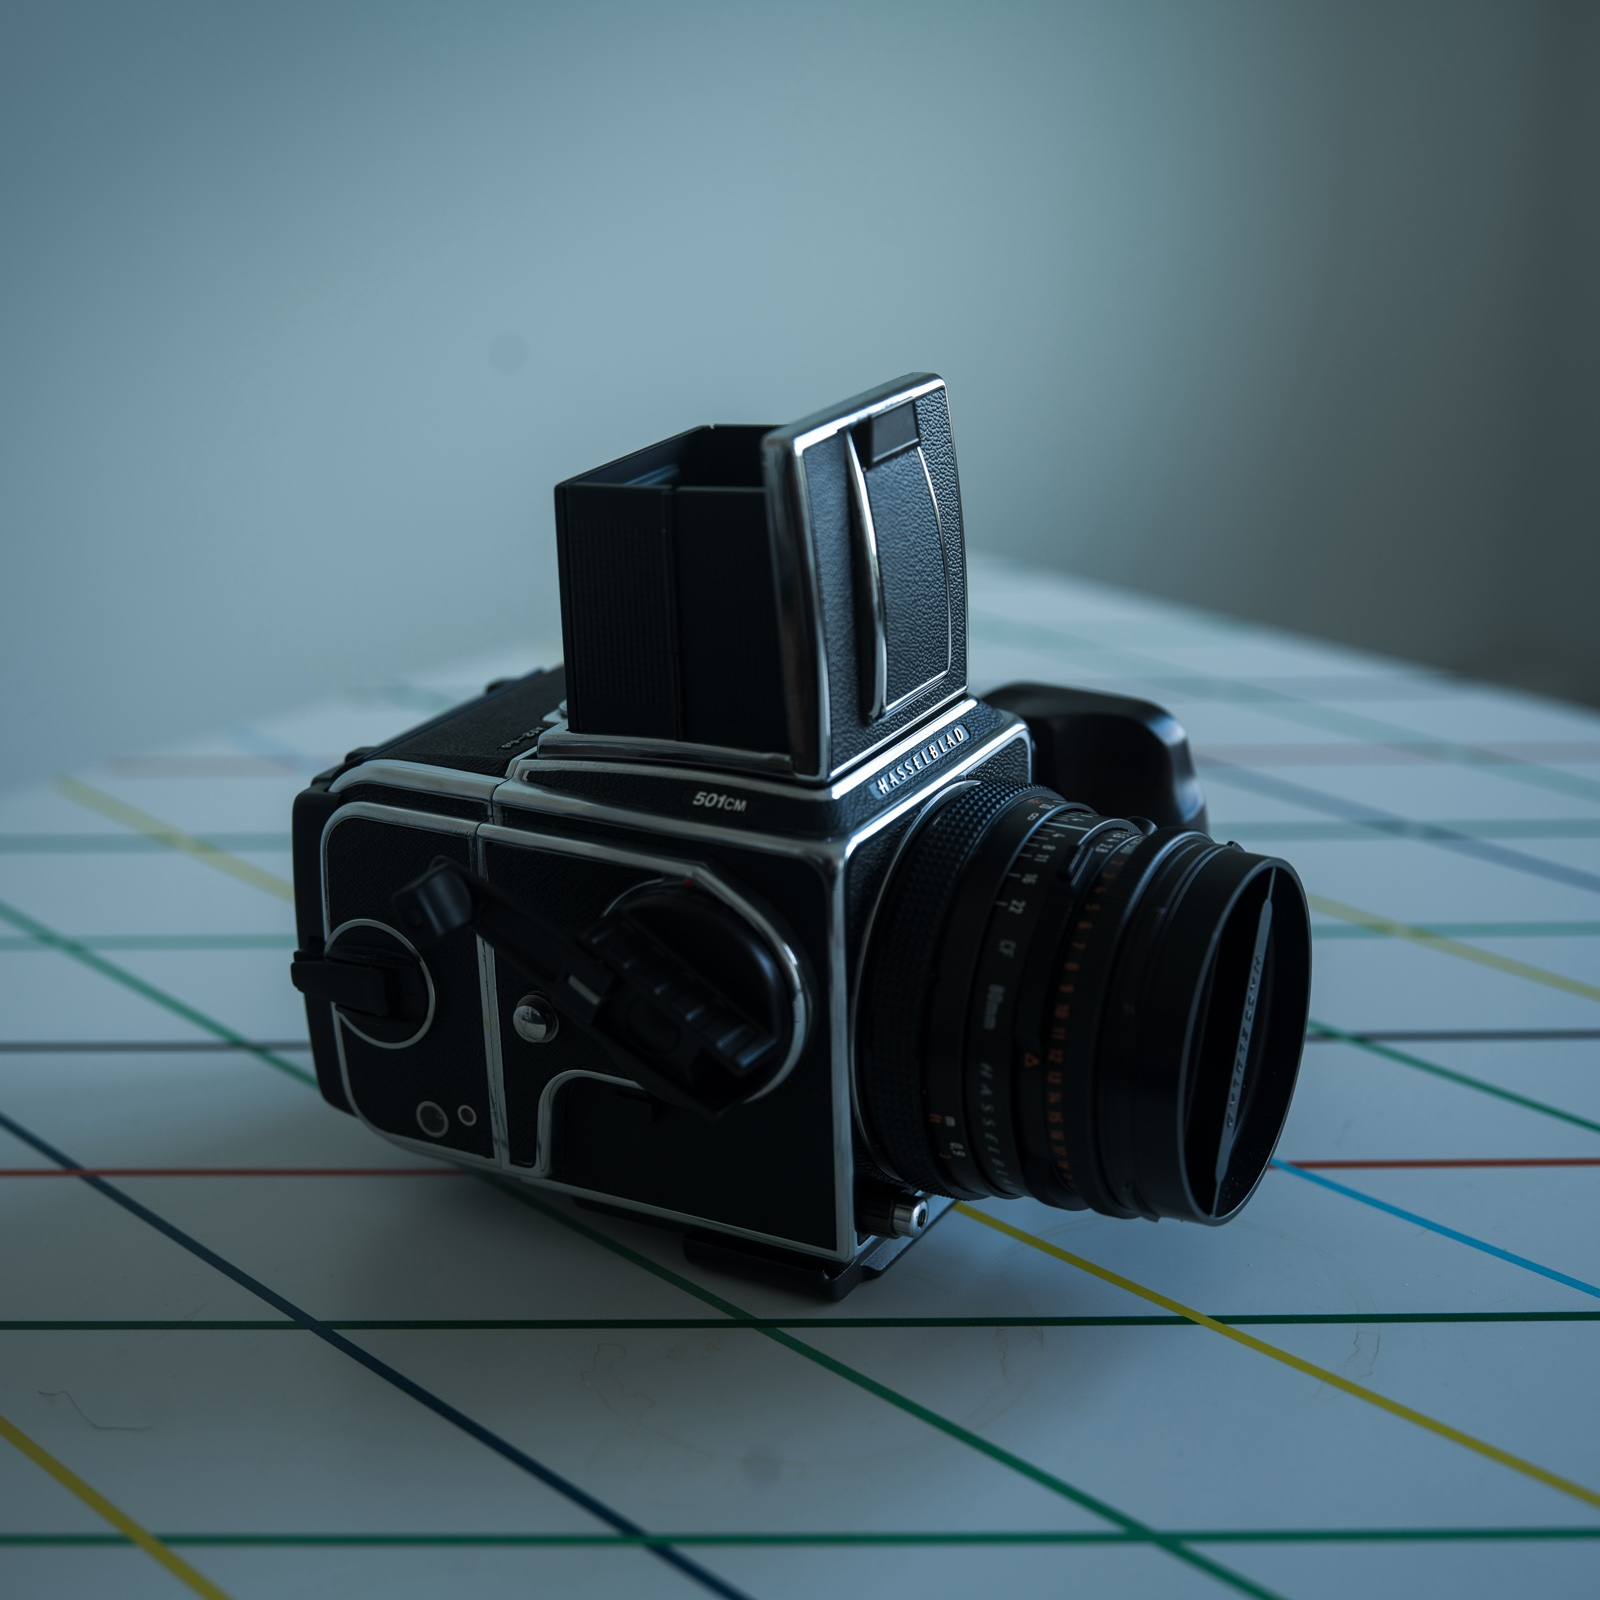
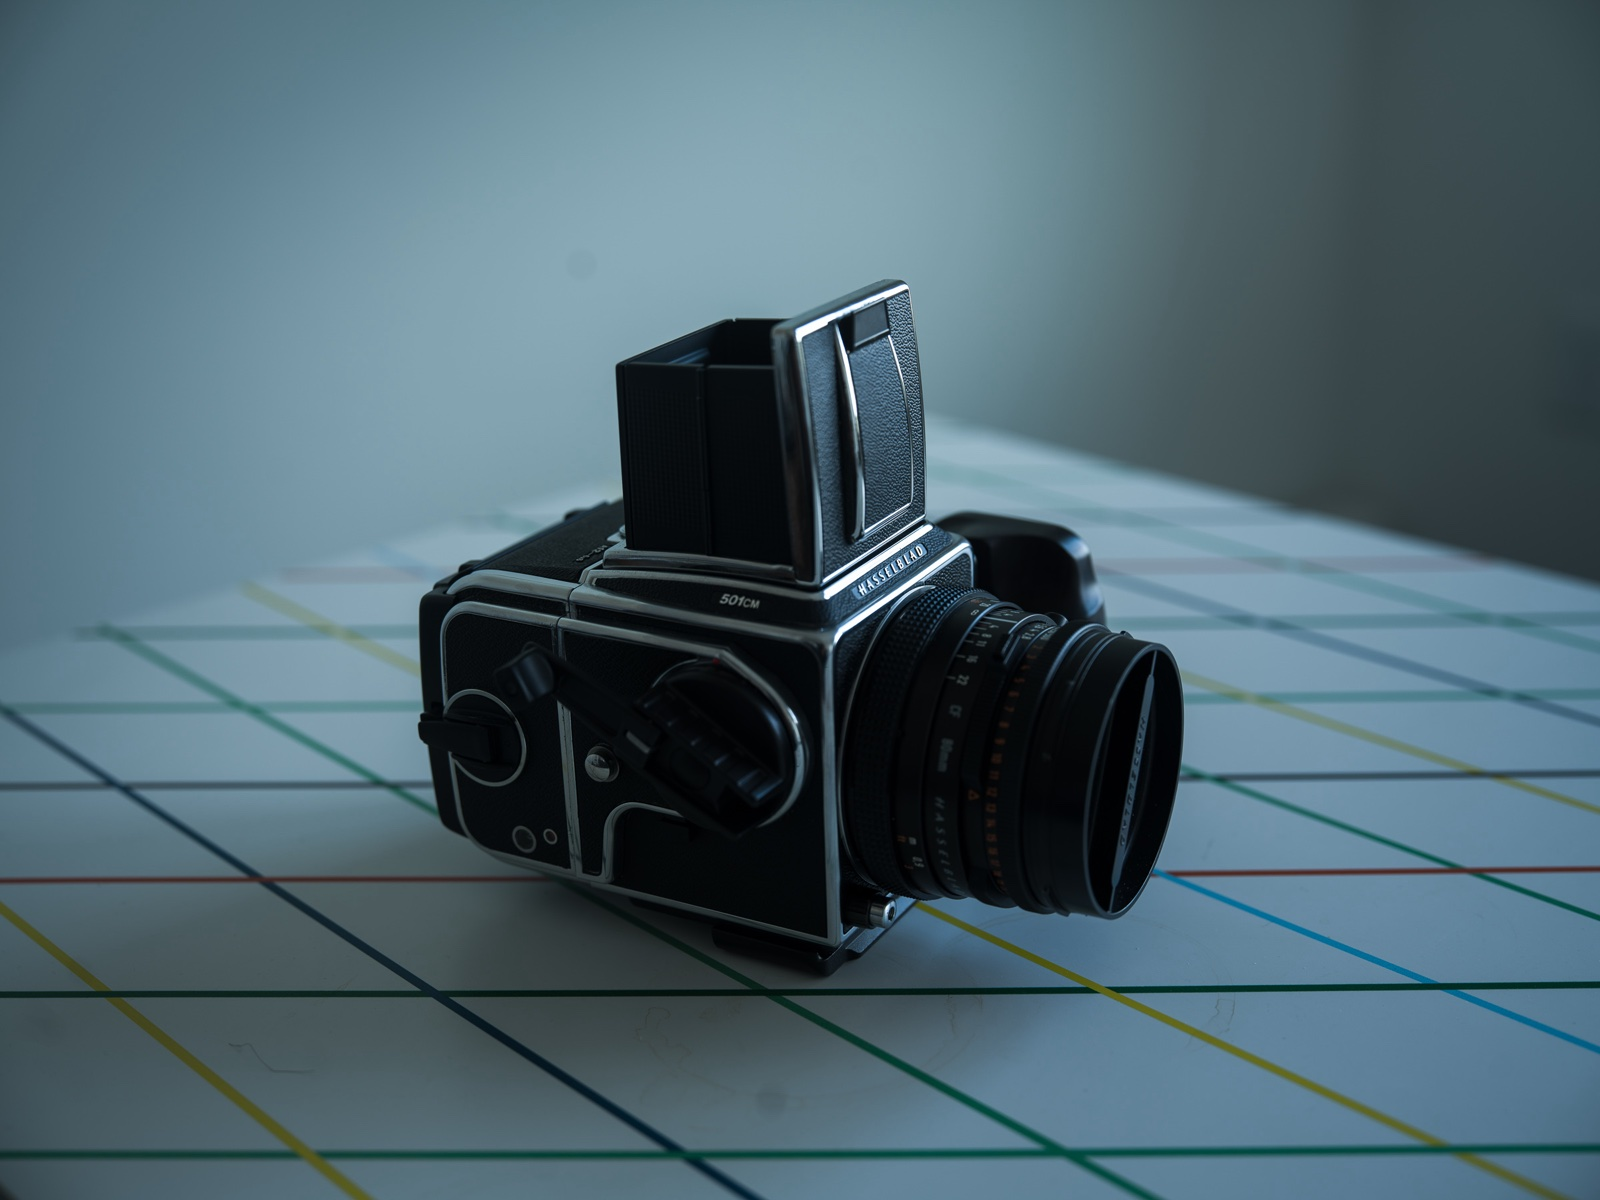
About: Newton's new Gear photograph (his 501CM, 4:3)

diff --git a/about.html b/about.html
@@ -203,7 +203,7 @@
              srcset="images/_about/800/fig-9.jpg 800w, images/_about/1600/fig-9.jpg 1600w, images/_about/fig-9.jpg 2400w"
              sizes="(max-width: 1000px) 100vw, min(58vw, 60rem)"
              alt="Newton's Hasselblad 501CM with its waist-level finder, on a table ruled with coloured lines, in soft blue light."
-             width="2400" height="2400" loading="lazy" decoding="async">
+             width="2400" height="1800" loading="lazy" decoding="async">
       </figure>
     </template>
 

diff --git a/CLAUDE.md b/CLAUDE.md
@@ -678,10 +678,10 @@ Not in ?edit, or the links would be saved into the essay.
 
 Newton's design (2026-10-15): every photograph is 3:2 but the photo-count
 chart (图1), the upright Arches (图8) and the Gear photograph (图9 file,
-square). 图2, 4, 5 and 6 are his own 3:2 crops (2400×1600); 3 and 7 are cropped
+4:3). 图2, 4, 5 and 6 are his own 3:2 crops (2400×1600); 3 and 7 are cropped
 by CSS only (`data-crop`, the crop's centre in the img's `object-position`;
 the files stay whole). A figure with `data-section="gear"` belongs to the
-设备 / Gear heading, not to a mark: his Hasselblad 501CM (`fig-9.jpg`, no
+设备 / Gear heading, not to a mark: his Hasselblad 501CM (`fig-9.jpg`, 4:3, no
 caption). Wide (over 1000px): the text sits against the right edge
 (`width: min(62ch, 52cqi)`); the rail keeps its contents in view and fills
 the window's height (`.has-stage`), and the `.about-stage` under the
